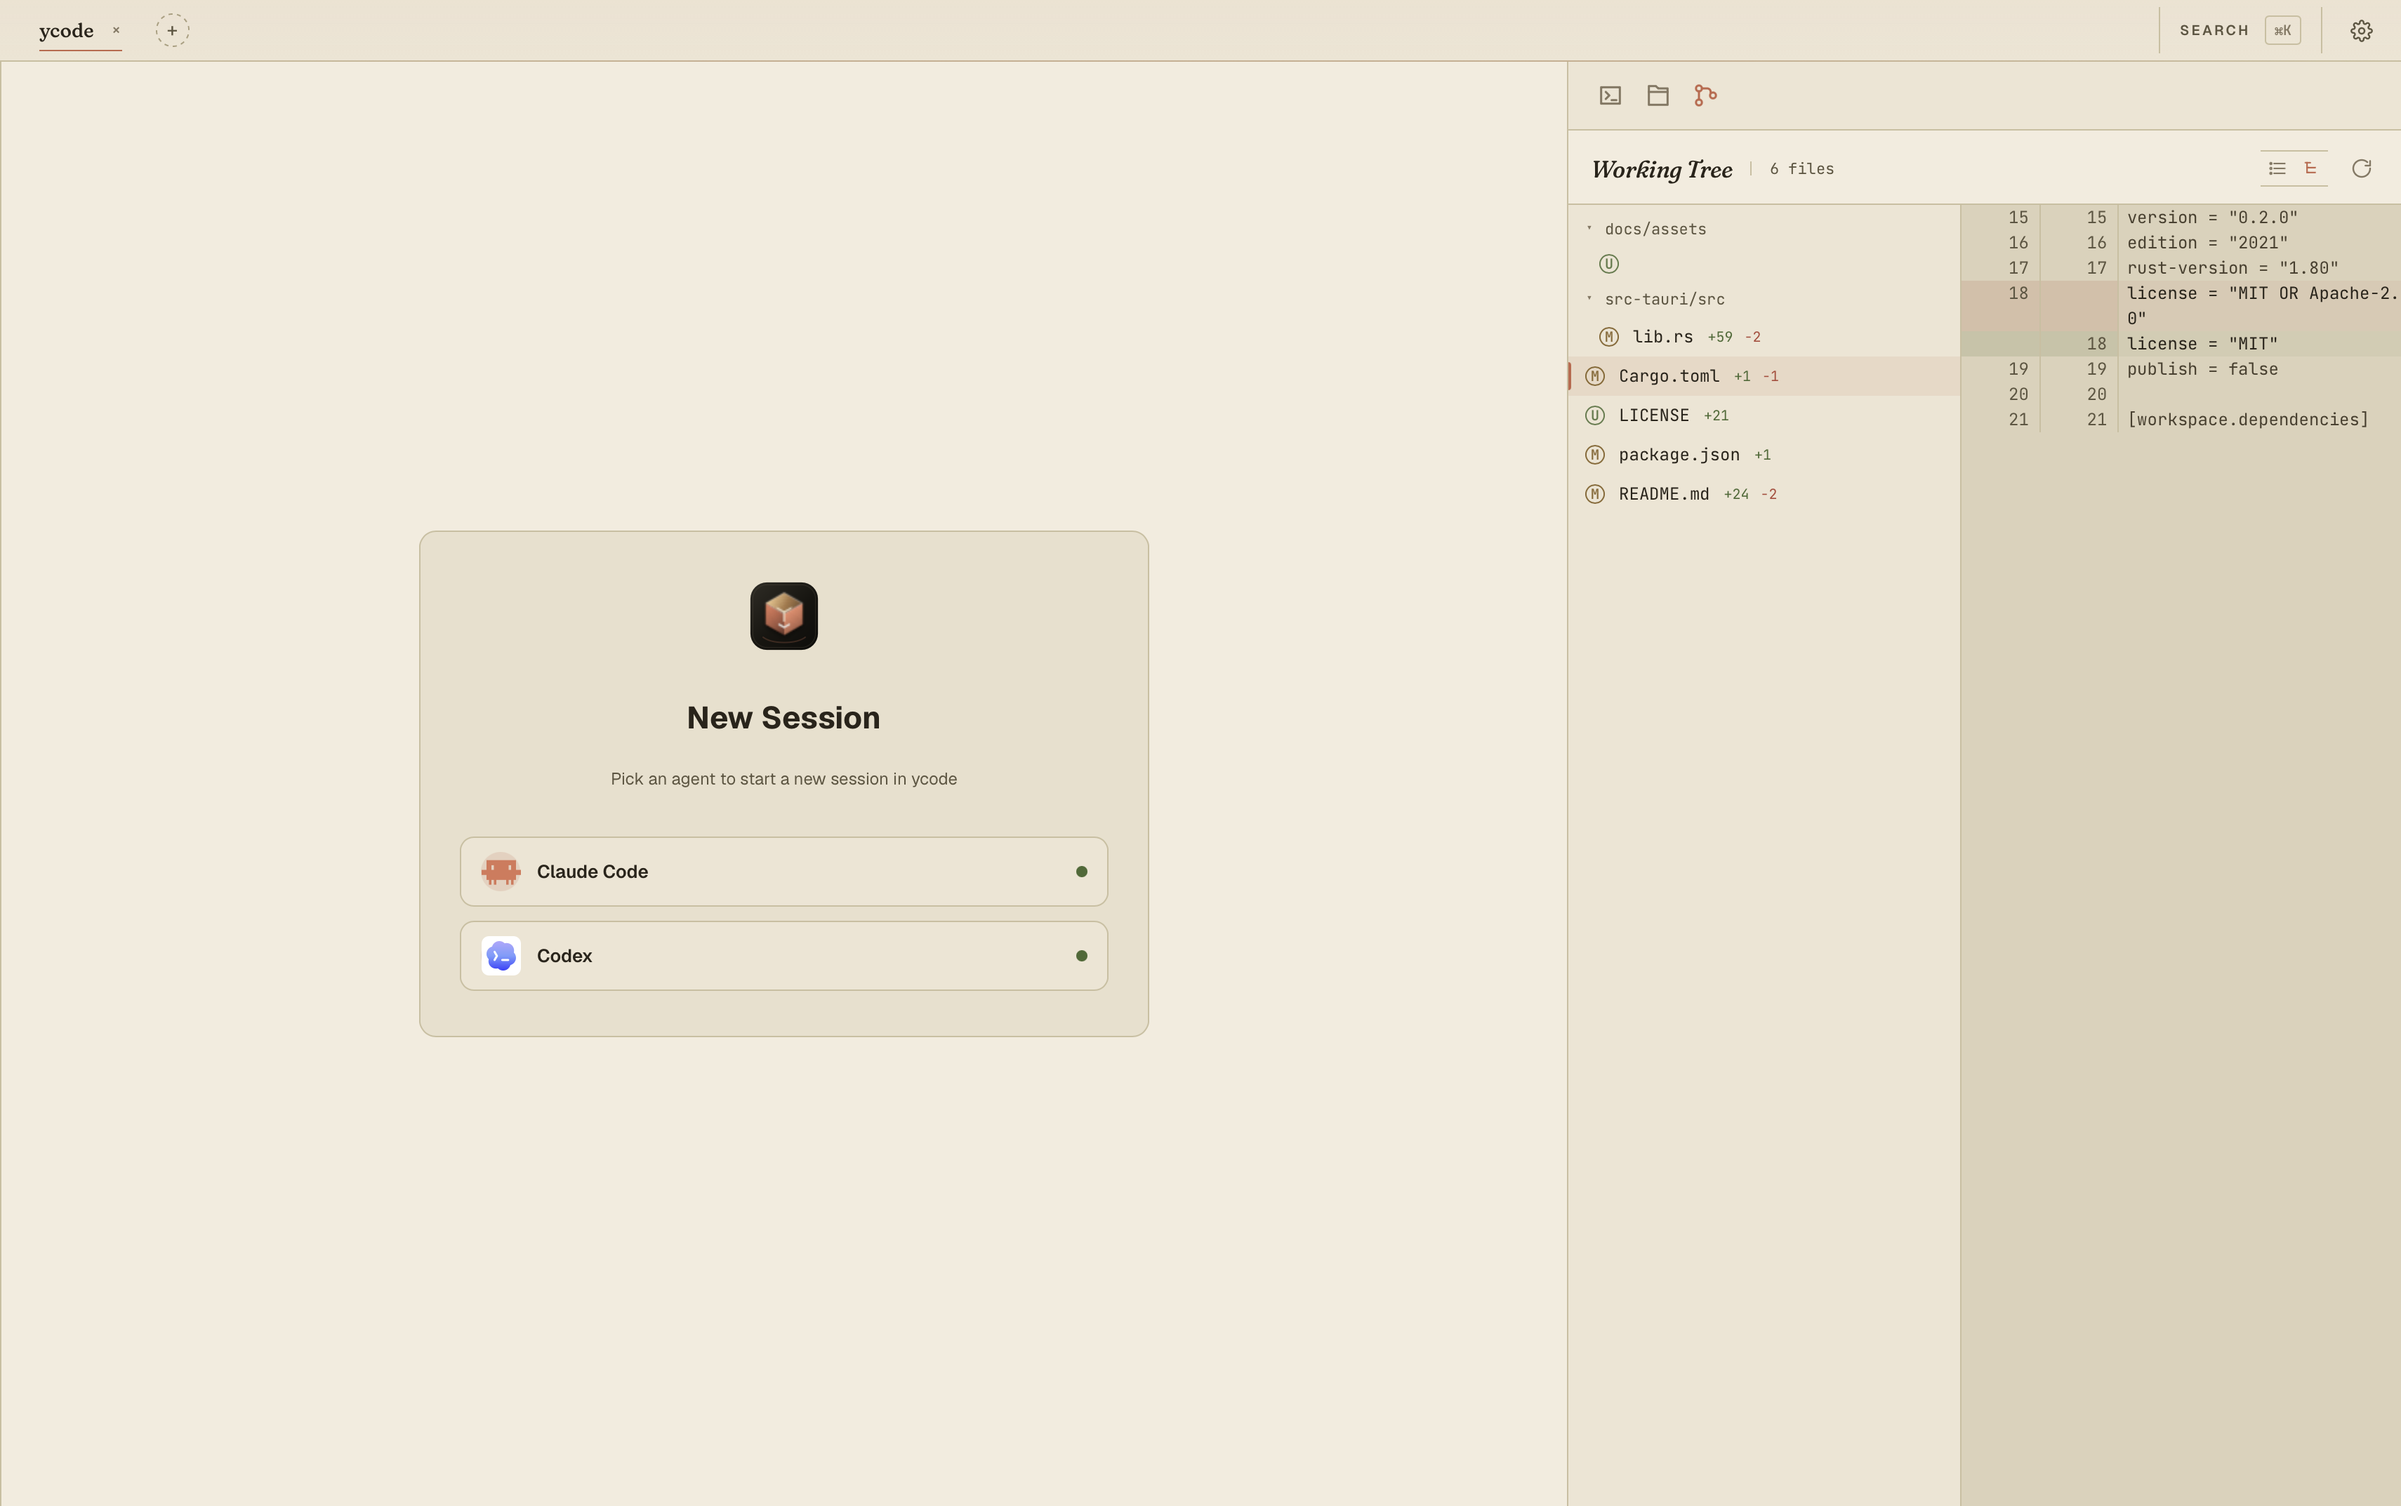
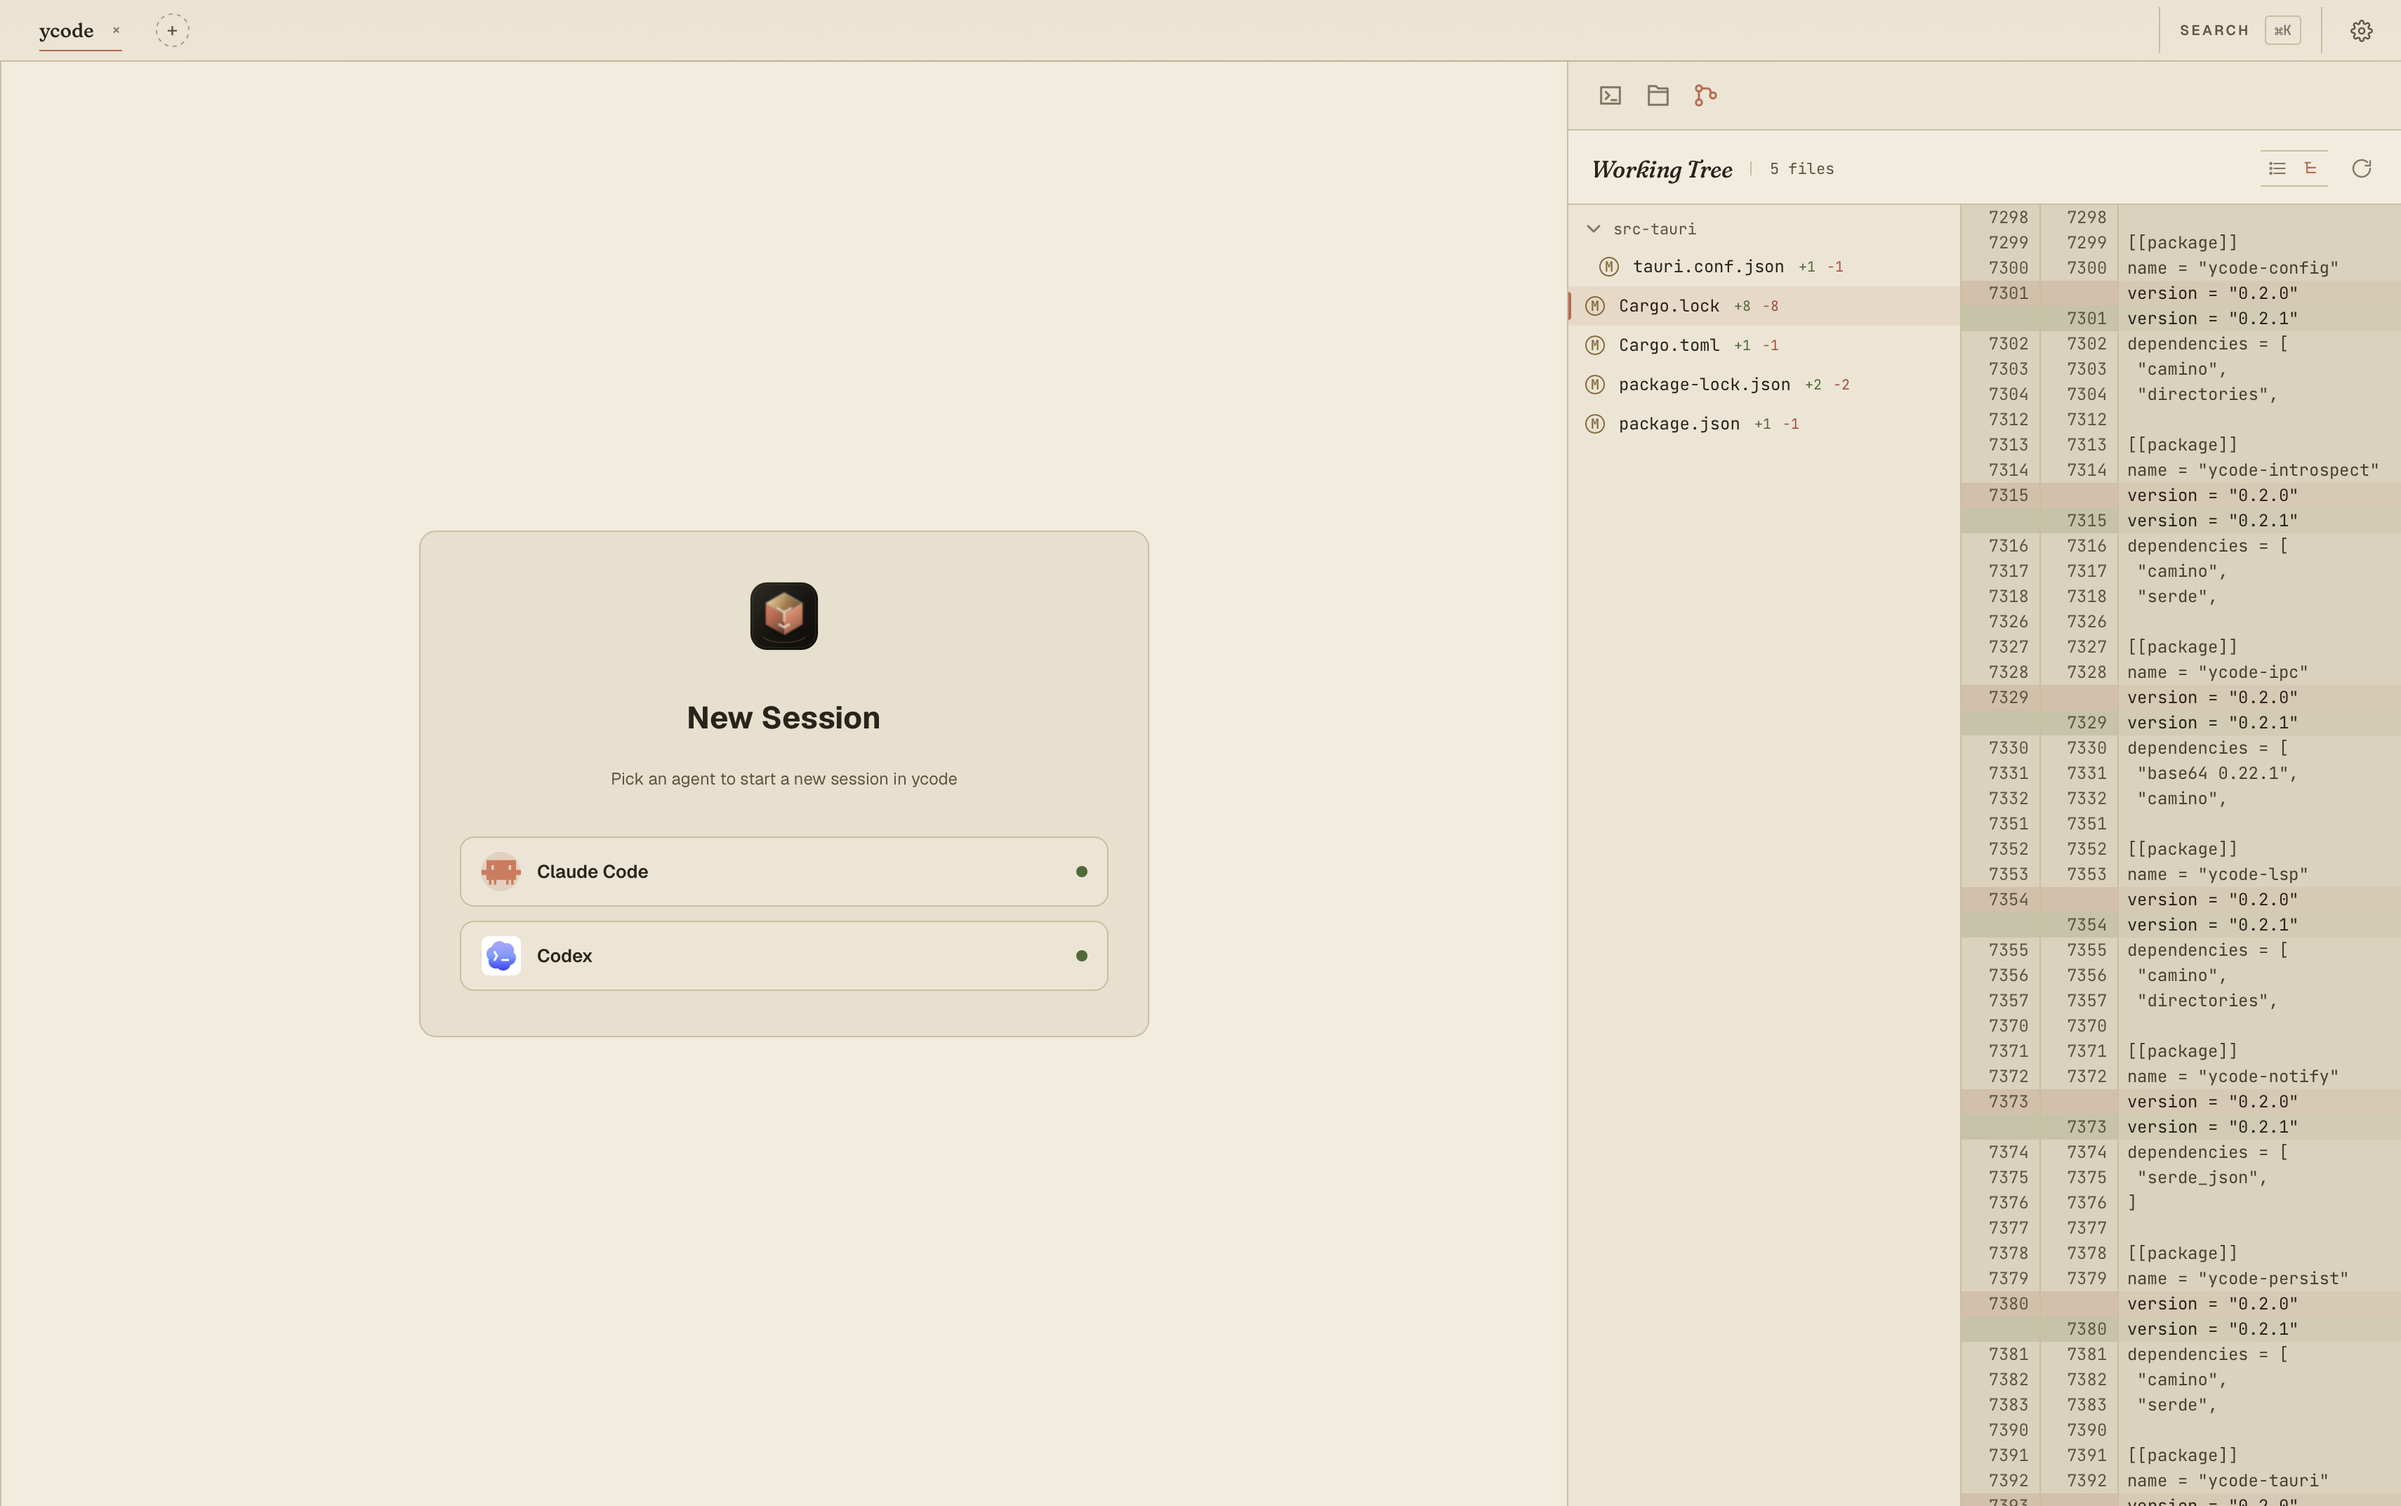
chore: bump app version to 0.2.1

diff --git a/README.md b/README.md
@@ -22,6 +22,27 @@ state. Single static binary.
 | ![Files panel with repository tree](docs/assets/files.png) | ![Changes panel with working tree diff](docs/assets/changes.png) |
 | Repository file tree + editor entry point | Working tree review with side-by-side diffs |
 
+## Features
+
+- **Multi-agent workspace** — run Claude Code, Codex, Gemini CLI, Cursor, or
+  any custom CLI agent side by side in real PTY sessions.
+- **Flexible session management** — create, resume, restart, archive, rename,
+  and arrange sessions in single, stacked, column, grid, or main+side layouts.
+- **Persistent agent history** — scan and search past Claude and Codex
+  transcripts, then reopen historical conversations from the sidebar.
+- **Built-in project tools** — manage projects, browse files, edit code, use
+  the right-side shell terminal, and review Git changes without leaving the
+  app.
+- **Editor and language support** — CodeMirror editing, syntax highlighting,
+  preview tabs, LSP installation, semantic tokens, and goto-definition.
+- **Configurable agents** — manage agent commands, args, environment
+  variables, icons, and transcript parsers through Settings and the built-in
+  agent catalog.
+- **Desktop notifications** — optional Claude and Codex hook integrations can
+  notify YCode when an agent finishes or needs attention.
+- **Personalized desktop app** — themes, font-size controls, persisted window
+  state, deep links, and Tauri updater support.
+
 ## Layout
 
 Three columns:
